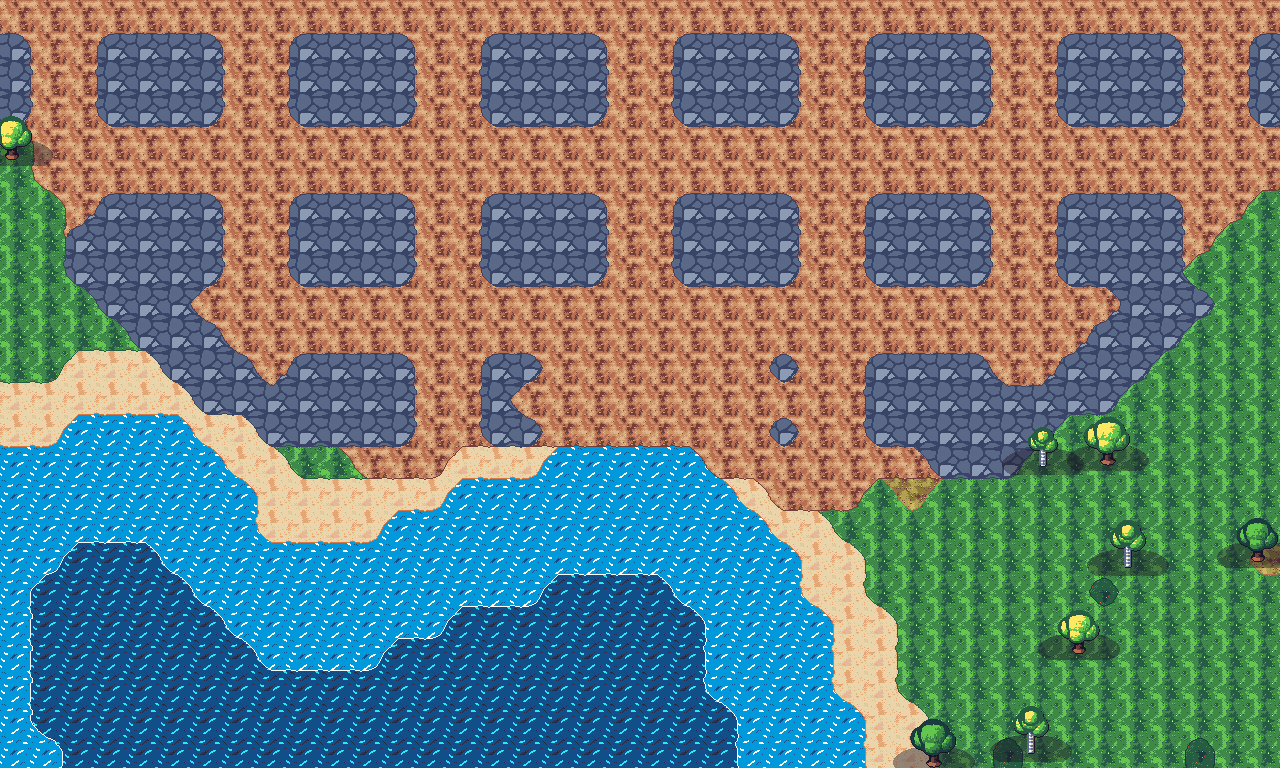
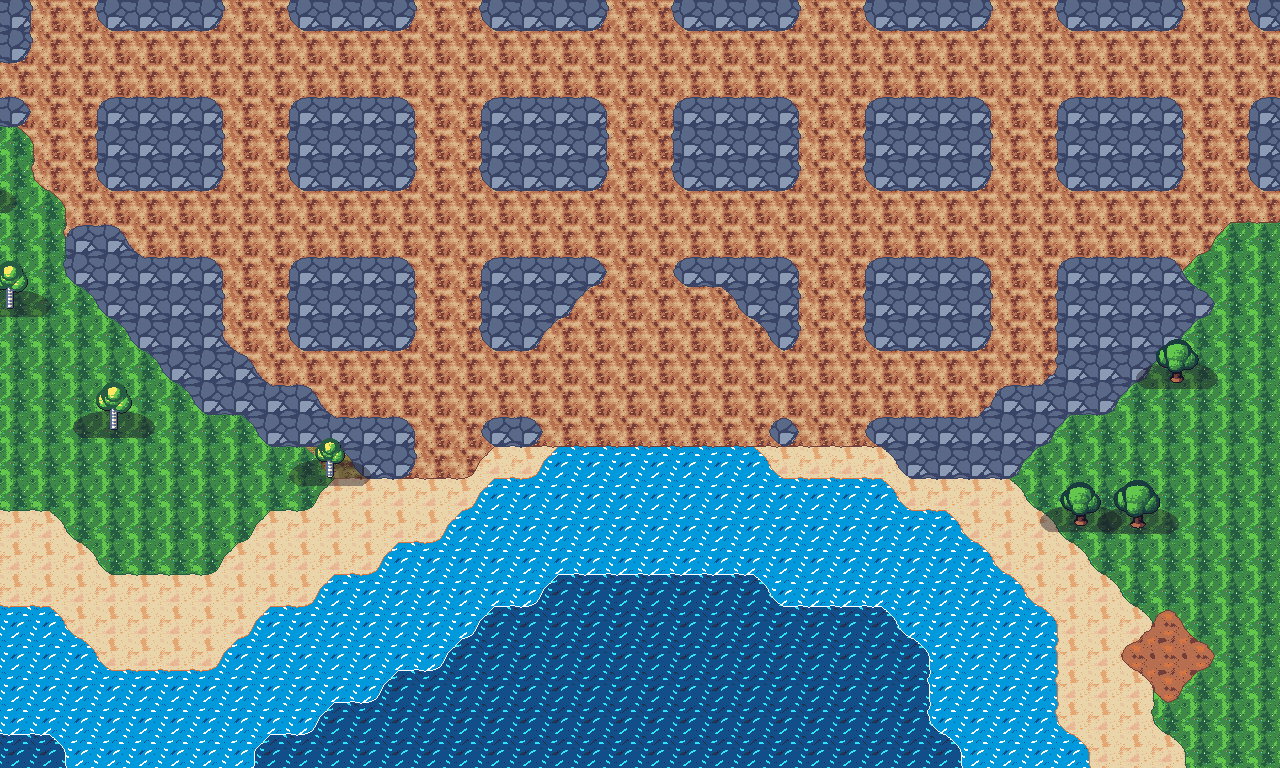
US-8B13: villaggi sulla mappa, golfo al porto, Archivio piu' piccolo, confronto tra seed
Claude-Session: https://claude.ai/code/session_014ycMSkFAn8ixUvbSfrqtAR

diff --git a/tools/art/build_world.py b/tools/art/build_world.py
@@ -4,6 +4,7 @@ Mappa di prova del mondo intero (US-8B13, PRD fase 8b).
 
     python tools/art/build_world.py                 # seed 4
     python tools/art/build_world.py --seed 5        # stessa disposizione, coste e colline diverse
+    python tools/art/build_world.py --confronto 4 5 6 7   # piu' seed affiancati, per scegliere
 
 Disposizione = variante C scelta dall'utente (006_PRD/prd-fase-8b-arte.md, par. 5):
 Marche a nord-ovest, Archivio a nord-est, Mirwada al centro-sud sul porto, Valle a
@@ -42,6 +43,7 @@ COSTA = 0.66                         # frazione di H dove finisce la terraferma
 # Regioni di terra: punto centrale (frazioni del mondo). Ordine = indice nella mappa.
 TERRA = {"mirwada": (0.43, 0.50), "marche_crepuscolo": (0.20, 0.24),
          "archivio_sepolto": (0.72, 0.17), "valle_madre": (0.82, 0.50)}
+PESO = {"archivio_sepolto": 1.45}   # >1 = regione piu' piccola (richiesta: Archivio in superficie ridotto)
 # Isole: (id, cx, cy, raggio in tile, profilo)
 ISOLE = [("frontiera_porte", 0.55, 0.87, 20, "frontiera"),
          ("isola_relitto", 0.12, 0.80, 8, "relitto"),
@@ -137,8 +139,10 @@ def genera(seed):
     # --- terra, regioni (Voronoi deformato dal rumore) e isole ---
     costa = H * COSTA + (n1 - 0.5) * 34 + (n2 - 0.5) * 10
     terra = yy < costa
+    golfo = ((xx - TERRA["mirwada"][0] * W) / 26) ** 2 + ((yy - costa) / 15) ** 2 < 1
+    terra &= ~golfo
     wx, wy = xx + (n2 - 0.5) * 60, yy + (n1 - 0.5) * 60
-    dist = np.stack([np.hypot(wx - cx * W, wy - cy * H) for cx, cy in TERRA.values()])
+    dist = np.stack([np.hypot(wx - cx * W, wy - cy * H) * PESO.get(n, 1.0) for n, (cx, cy) in TERRA.items()])
     reg = pulisci_enclavi(np.where(terra, dist.argmin(0) + 1, 0))
     for i, (rid, cx, cy, r, _) in enumerate(ISOLE):
         isola = (np.hypot(xx - cx * W, (yy - cy * H) * 1.25) < r * (0.75 + 0.5 * n2)) & ~terra
@@ -187,6 +191,7 @@ def genera(seed):
     g[nord & land & ~vl] = L["snow"]
     # coste: sabbia, ma scogliere nella Valle e nelle Marche
     riva = land & (dmare <= 2)
+    riva |= R["mirwada"] & (dmare <= 3)                                   # spiagge di Mirwada piu' larghe
     g[riva] = L["sand"]
     g[riva & (vl | mc)] = L["stone"]
     # isole
@@ -285,7 +290,7 @@ def genera(seed):
     lontano_dal_confine = -np.hypot(xx - TERRA["valle_madre"][0] * W, yy - TERRA["valle_madre"][1] * H)
     luoghi = {
         "porto": porto, "centro_antico": centro, "archivio_ordine": archivio_ordine, "cimitero": cimitero,
-        "faro": migliore(costa_mw, -yy + (xx < px) * 40),
+        "faro": migliore(costa_mw & (xx < px - 20), yy),             # la punta piu' a sud a ovest della citta' 
         "casa_base_porto": (porto[0] + 5, porto[1] - 2),
         "passo_tra_rupi": passo, "trono_del_gigante": migliore(mc, alt),
         "soglia_del_crepuscolo": migliore(mc & (alt > 0.45) & (alt < 0.65), d),
@@ -296,6 +301,45 @@ def genera(seed):
     }
     for rid, cx, cy, r, prof in ISOLE[1:]:
         luoghi[rid] = (int(cx * W), int(cy * H))
+
+    # --- villaggi, case e capanne: dove vive qualcuno (suggerimenti) ---
+    def scegli(z, n, distanza, evita=()):
+        ys, xs = np.nonzero(z & interno)
+        ordine = list(range(len(xs)))
+        rnd.shuffle(ordine)
+        presi = []
+        for i in ordine:
+            q = (int(xs[i]), int(ys[i]))
+            if all((q[0] - o[0]) ** 2 + (q[1] - o[1]) ** 2 >= distanza ** 2 for o in presi + list(evita)):
+                presi.append(q)
+                if len(presi) == n:
+                    break
+        return presi
+
+    def vicino_a(punto, da, a):
+        dd = np.hypot(xx - punto[0], yy - punto[1])
+        return (dd >= da) & (dd <= a)
+
+    fiume = acqua & land
+    riva_fiume = ispessisci(fiume, 1) & ~fiume
+    lontano_citta = ~disco(*centro, 30)
+    campagna = mw & lontano_citta & ~riva & np.isin(g, [L["grass"], L["dry_grass"]])
+    villaggi = {"villaggio_sugli_alberi": migliore(vl & vicino_a(galleria, 30, 45) & (g == L["forest"]), m),
+                "capanna_base_valle": migliore(vl & vicino_a(galleria, 8, 14) & ~riva, d),
+                "rifugio_base_marche": migliore(mc & vicino_a(passo, 10, 16) & ~rupi, d),
+                "mulino": migliore(mw & riva_fiume & lontano_citta, -abs(yy - centro[1])),
+                "villaggio_pescatori": migliore(R["isola_tropicale"] & (dmare == 2), xx)}
+    for i, q in enumerate(scegli(mc & (g == L["dirt"]), 3, 30), 1):
+        villaggi[f"eremita_{i}"] = q
+    for i, q in enumerate(scegli(campagna & (g == L["dry_grass"]), 3, 22), 1):
+        villaggi[f"fattoria_{i}"] = q
+    for i, q in enumerate(scegli(campagna, 6, 16, list(villaggi.values())), 1):
+        villaggi[f"casetta_{i}"] = q
+    for i, q in enumerate(scegli(campagna & (d > 0.6), 3, 25, list(villaggi.values())), 1):
+        luoghi[f"caverna_{i}"] = q
+    for nome, (x, y) in villaggi.items():
+        r = 3 if nome.startswith("villaggio") else 1
+        g[disco(x, y, r) & land & ~acqua] = L["path"] if r == 3 else L["dirt"]
 
     w = World(W, H, seed, g, reg, e, REGIONI, water_mask=acqua)
     w.roads = [[list(map(int, q)) for q in p] for p in strade]
@@ -330,7 +374,7 @@ def genera(seed):
                                   "y": y + rnd.uniform(.3, .9), "seed": rnd.randrange(6),
                                   "size": rnd.choice([0.9, 1.0, 1.1])})
     w.objects.sort(key=lambda o: o["y"])
-    return w, luoghi
+    return w, luoghi, villaggi
 
 
 def colori_terreni():
@@ -343,7 +387,7 @@ def colori_terreni():
     return np.array(out)
 
 
-def anteprima(w, luoghi, path, k=3):
+def anteprima(w, luoghi, villaggi, k=3, etichette=True):
     col = colori_terreni()
     img = col[w.ground].copy()
     reg = w.biome
@@ -368,34 +412,55 @@ def anteprima(w, luoghi, path, k=3):
         scritta(xs.mean() * k - 30, ys.mean() * k - 20, rid.upper(), (254, 231, 97))
     for nome, (x, y) in luoghi.items():
         dr.rectangle([x * k - 3, y * k - 3, x * k + 3, y * k + 3], fill=(228, 59, 68), outline=(24, 20, 37))
-        scritta(x * k + 6, y * k - 6, nome)
+        if etichette:
+            scritta(x * k + 6, y * k - 6, nome)
+    for nome, (x, y) in villaggi.items():
+        r = 6 if nome.startswith("villaggio") else 4
+        dr.ellipse([x * k - r, y * k - r, x * k + r, y * k + r], fill=(254, 231, 97), outline=(24, 20, 37))
+        if etichette:
+            scritta(x * k + 7, y * k - 6, nome, (254, 231, 97))
     scritta(8, 6, f"N (freddo)   seed {w.seed}   {W}x{H} tile")
-    im.save(path)
+    scritta(8, H * k - 30, "quadrato rosso = luogo speciale", (228, 59, 68))
+    scritta(8, H * k - 16, "cerchio giallo = villaggio, casa, capanna", (254, 231, 97))
+    return im
 
 
 def main():
     ap = argparse.ArgumentParser(description=__doc__, formatter_class=argparse.RawDescriptionHelpFormatter)
     ap.add_argument("--seed", type=int, default=4)
     ap.add_argument("--senza-ritagli", action="store_true", help="solo la mappa intera (piu' veloce)")
+    ap.add_argument("--confronto", type=int, nargs="+", metavar="SEED",
+                    help="solo un confronto affiancato tra piu' seed -> arte/mondo/confronto_seed.png")
     a = ap.parse_args()
     os.makedirs(OUT, exist_ok=True)
-    w, luoghi = genera(a.seed)
+    if a.confronto:
+        imgs = [anteprima(*genera(sd), etichette=False) for sd in a.confronto]
+        cols = 2
+        righe = (len(imgs) + cols - 1) // cols
+        tav = Image.new("RGB", (imgs[0].width * cols + 10 * (cols - 1), imgs[0].height * righe + 10 * (righe - 1)),
+                        (244, 244, 244))
+        for i, im in enumerate(imgs):
+            tav.paste(im, ((i % cols) * (im.width + 10), (i // cols) * (im.height + 10)))
+        tav.save(os.path.join(OUT, "confronto_seed.png"))
+        print(f"confronto seed {a.confronto} -> {OUT}/confronto_seed.png")
+        return
+    w, luoghi, villaggi = genera(a.seed)
     j = w.to_json()
     j["ground"] = [[int(v) for v in r] for r in j["ground"]]
     j["biome_map"] = [[int(v) for v in r] for r in j["biome_map"]]
     j.pop("biomes")
-    j.update({"regions": REGIONI, "region_map": j.pop("biome_map"), "luoghi": luoghi, "tile": 32,
+    j.update({"regions": REGIONI, "region_map": j.pop("biome_map"), "luoghi": luoghi, "villaggi": villaggi, "tile": 32,
               "layout": {"terra": TERRA, "isole": ISOLE, "costa": COSTA}})
     with open(os.path.join(OUT, "world_prova.json"), "w") as f:
         json.dump(j, f, separators=(",", ":"))
-    anteprima(w, luoghi, os.path.join(OUT, "mondo_prova.png"))
+    anteprima(w, luoghi, villaggi).save(os.path.join(OUT, "mondo_prova.png"))
     if not a.senza_ritagli:
         atl = {n: build_atlas(n, 32) for n in ORDER}
         for nome in ("porto", "passo_tra_rupi", "galleria_di_alberi", "scalinata_archivio", "approdo_frontiera"):
             x, y = luoghi[nome]
             box = (max(0, x - 20), max(0, y - 12), min(W, x + 20), min(H, y + 12))
             save(render_world(w, box, atlases=atl), os.path.join(OUT, f"mondo_prova_{nome}.png"))
-    print(f"seed {a.seed}: {len(w.objects)} oggetti, {len(luoghi)} luoghi -> {OUT}")
+    print(f"seed {a.seed}: {len(w.objects)} oggetti, {len(luoghi)} luoghi, {len(villaggi)} villaggi -> {OUT}")
 
 
 if __name__ == "__main__":
